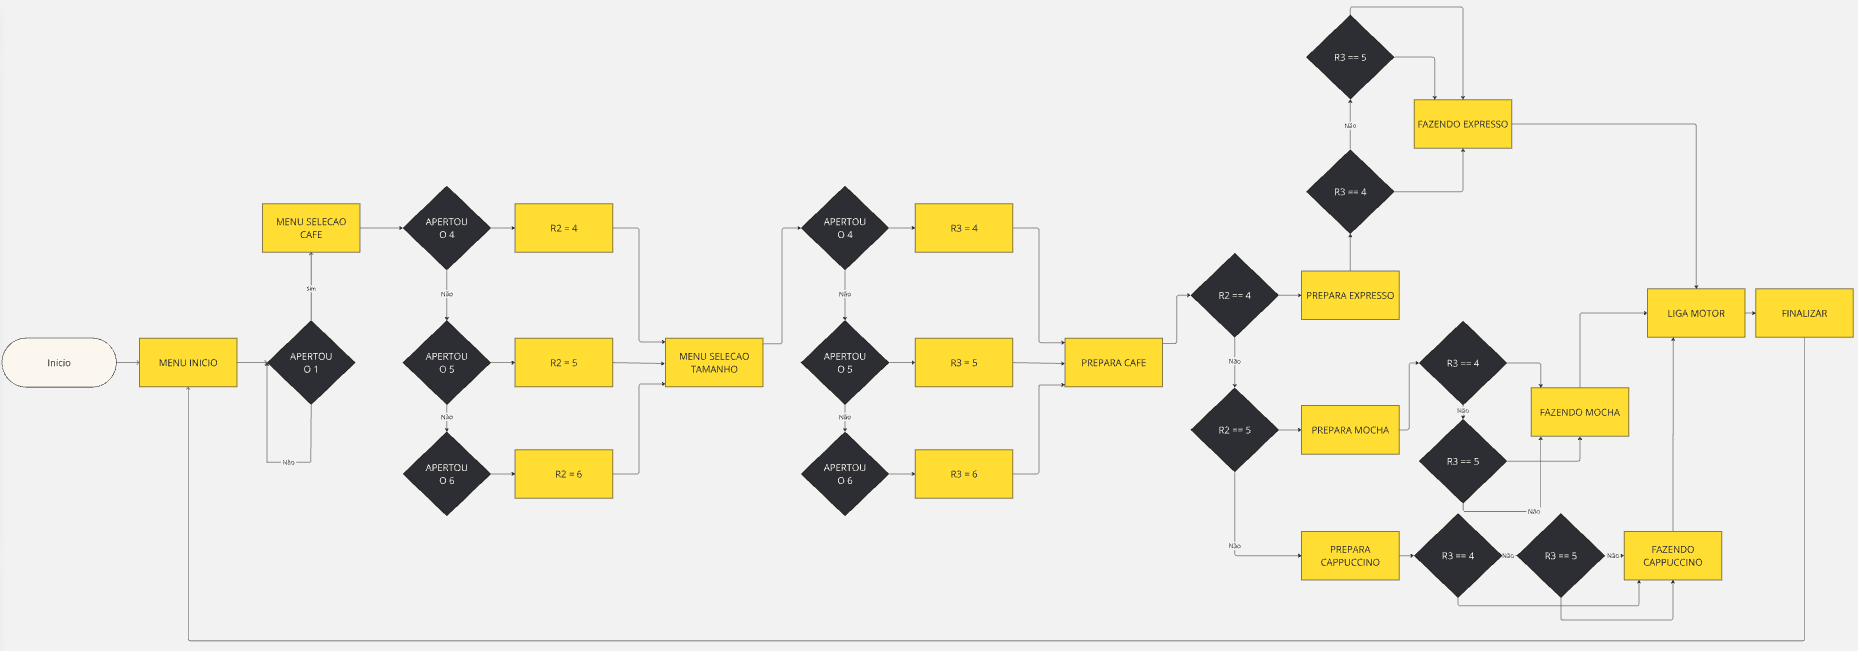
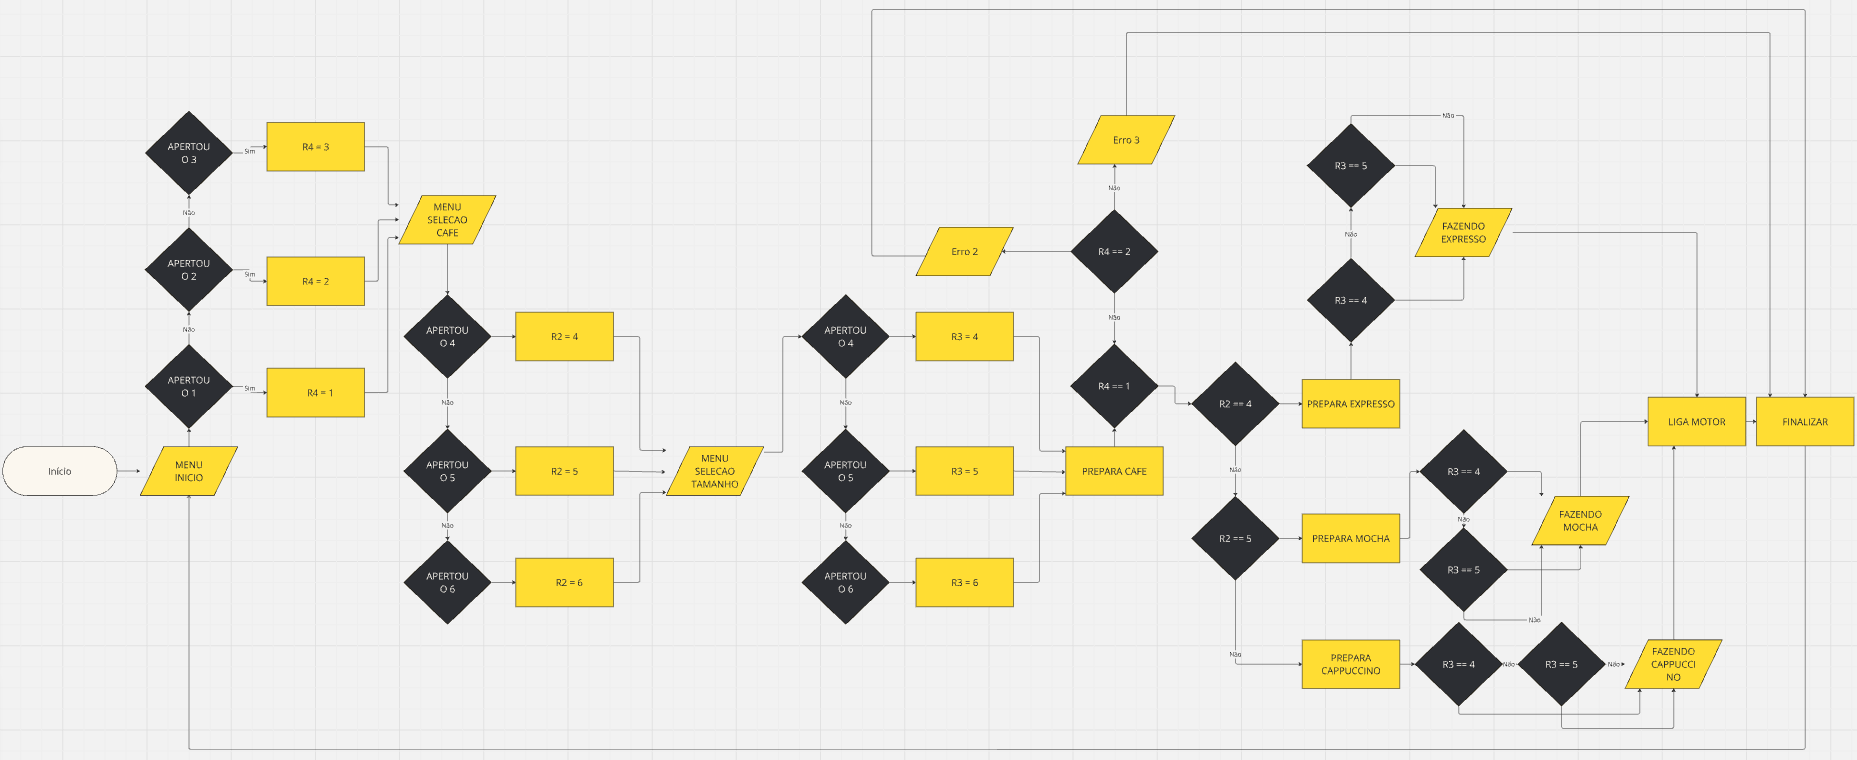
README atualizado depois das mudanças no projeto.

diff --git a/README.md b/README.md
@@ -34,6 +34,14 @@ O projeto visa contemplar todos os conceitos vistos durante o semestre da discip
 
 ![cafeSendoPreparado](imgs/cafeSendoPreparado.png)
 
+<div>Caso o usuário, no começo, tenha apertado o 2 aparece esse display</div>
+
+![erro5](imgs/erro5.png)
+
+<div>Caso o usuário, no começo, tenha apertado o 3 aparece esse display</div>
+
+![erro29](imgs/erro29.png)
+
 <div>Mensagem avisando que o café está pronto e o motor para.</div>
 
 ![cafePronto](imgs/cafePronto.png)
